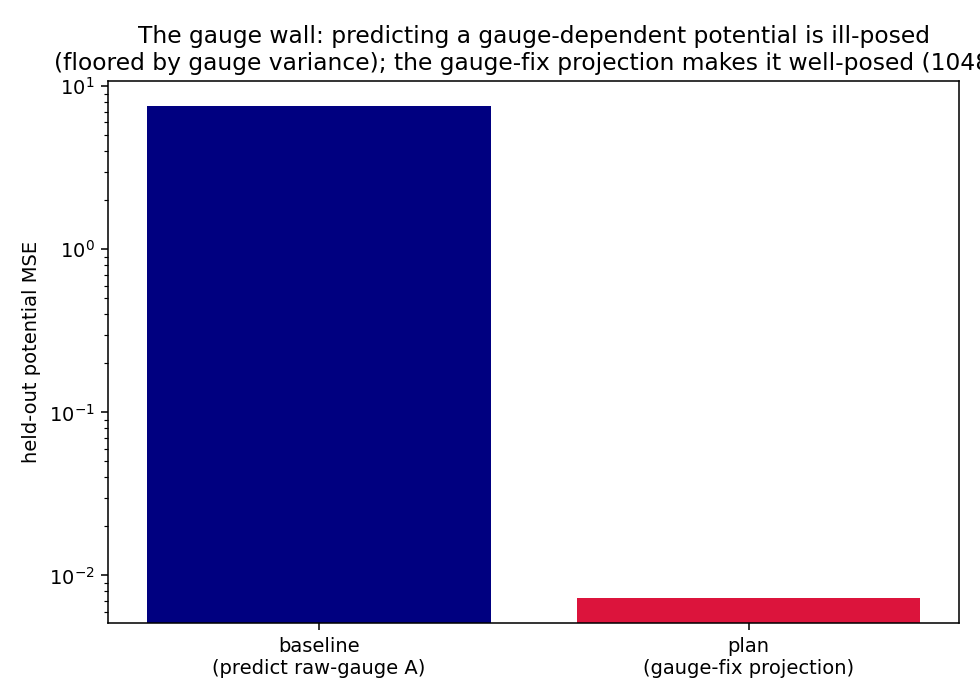
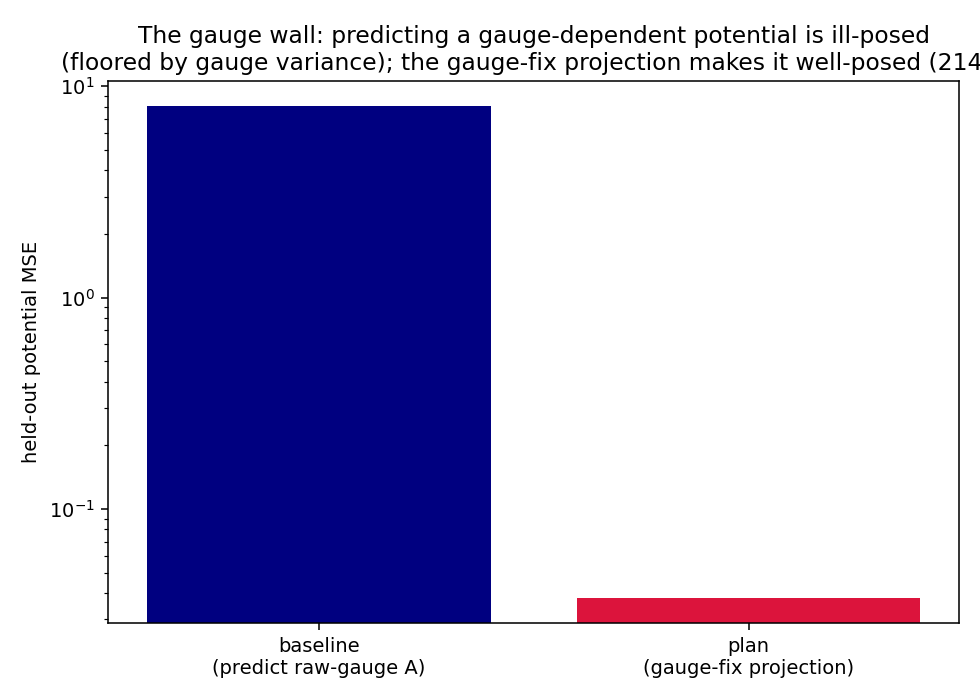
Hail Mary Exp 2 result: gauge wall dissolved by projection (G1 214x); G2 needs a global predictor (Phase F wall recurs)
G1: predicting gauge-dependent potential A is ill-posed (test MSE 8.07, gauge variance);
the gauge-fix projection (div A=0, same Leray tool as the Gauss constraint) -> 3.8e-2,
214x. The gauge wall is dissolved by the projection module. G2: curl(plan A) recovers
B_z only at rel-MSE 1.4 -- because B_z->Coulomb-A is the inverse curl (1/k^2 non-local
Poisson op), which the local CNN can't represent: the Phase F long-range wall reappears
inside the gauge experiment. Fix = FNO predictor. Two walls cleanly separated.

diff --git a/curvature/notes/hail_mary.md b/curvature/notes/hail_mary.md
@@ -104,3 +104,17 @@ constraint wall is necessary but not sufficient; the long-time STABILITY wall (w
 recurrent-training / conservation tools, not projection. (The robustness rule did its job -- it caught a G2
 over-claim the single run would have hidden. The headline -- constraint by construction, ~5 orders, robust --
 stands.)
+
+### Experiment 2 — the gauge wall (predict-invariant vs predict-gauge-dependent), 2026-06-20
+Grid 32, 200 distinct B_z x 4 random gauges each, map B_z -> potential A. **G1 ✓ (gauge wall real): predicting
+the raw gauge-dependent A is ill-posed** -- test MSE 8.07 (floored by gauge variance) -- while the gauge-fix
+projection (div A = 0, the SAME Leray tool as Exp 1's Gauss constraint) brings it to 3.8e-2, a 214x gap. One
+physical input -> many potentials defeats the naive net; fixing the gauge by projection dissolves the
+ill-posedness (our "judge by invariants" thesis + cert #86, ported to Maxwell; and the gauge-fix is structurally
+the SAME module as the constraint -- one tool, both walls). **G2 ✗ for an independent, understood reason:**
+curl(plan's A) recovers B_z only at rel-MSE 1.4 -- the residual map B_z -> Coulomb-A is the INVERSE CURL (1/k^2,
+non-local Poisson-like), which the LOCAL CNN predictor structurally cannot represent. **This is the Phase F
+long-range wall reappearing inside the gauge experiment** -- the gauge-fix (G1) is sound; the predictor
+architecture is the limit. Fix (clear, ties straight to Phase F): swap the CNN predictor for an FNO/global
+operator and G2 should close. Verdict: gauge wall dissolved by the projection module (G1, the point); full
+invariant recovery (G2) needs a global predictor -- two walls cleanly separated, and Phase F's lesson recurs.
